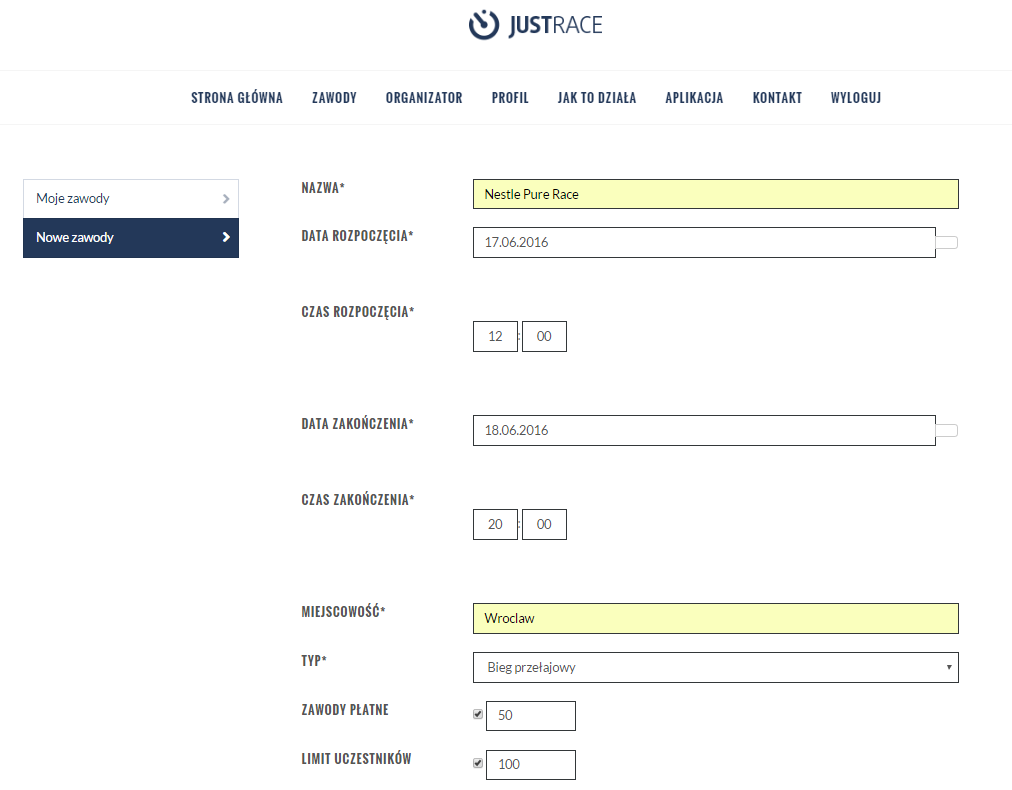
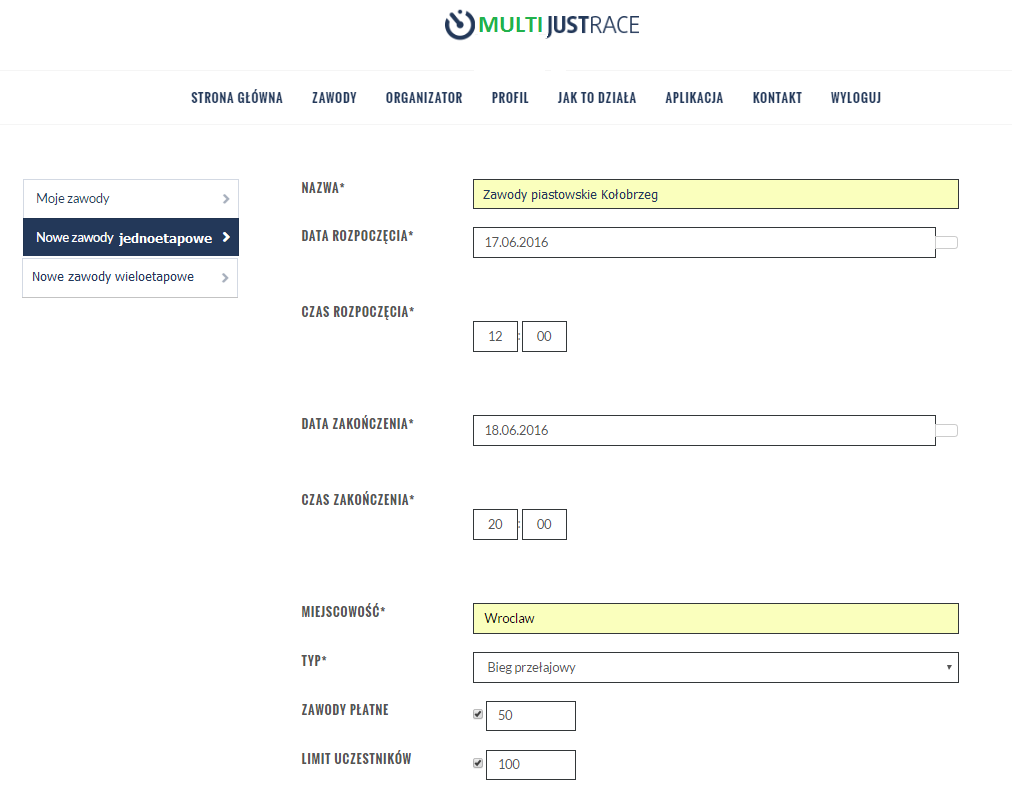
coloredIcons

Changed region(s): [[0.0306, 0.2734, 0.2144, 0.3646], [0.4289, 0.0, 0.6126, 0.0608], [0.4901, 0.243, 0.6433, 0.2734]]

diff --git a/views/competitions.html b/views/competitions.html
@@ -68,7 +68,8 @@
 														  competition.TYP == 'Bieg maratoński' ||
 														  competition.TYP == 'Bieg uliczny' ||
 														  competition.TYP == 'Bieg górski' ||
-														  competition.TYP == 'Chód'" 
+														  competition.TYP == 'Chód' &&
+															&& competition.WIELOETAPOWE == 0 "
 														  style='width:280px;height:230px;' src="images/bieg.png" />
 											
 											<img ng-show="competition.TYP == 'Kolarstwo szosowe' ||
@@ -80,9 +81,15 @@
 														  style='width:280px;height:230px;' src="images/zimowe.png" />
 											
 											<img ng-show="competition.TYP == 'Wyścig samolotów' ||
-														  competition.TYP == 'Wyścig balonów'" 
-														  style='width:280px;height:230px;' src="images/powietrzne.png" />
-											
+														  competition.TYP == 'Wyścig balonów' &&
+															&& competition.WIELOETAPOWE == 0 "
+												 style='width:280px;height:230px;' src="images/powietrzne.png" />
+
+											<img ng-show="competition.TYP == 'Wyścig samolotów' ||
+														  competition.TYP == 'Wyścig balonów' &&
+															&& competition.WIELOETAPOWE == 1 "
+												 style='width:280px;height:230px;' src="images/powietrzne1.png" />
+
 											<img ng-show="competition.TYP == 'Wyścig off-road' ||
 														  competition.TYP == 'Karting' ||
 														  competition.TYP == 'Wyścig motocykli' ||
